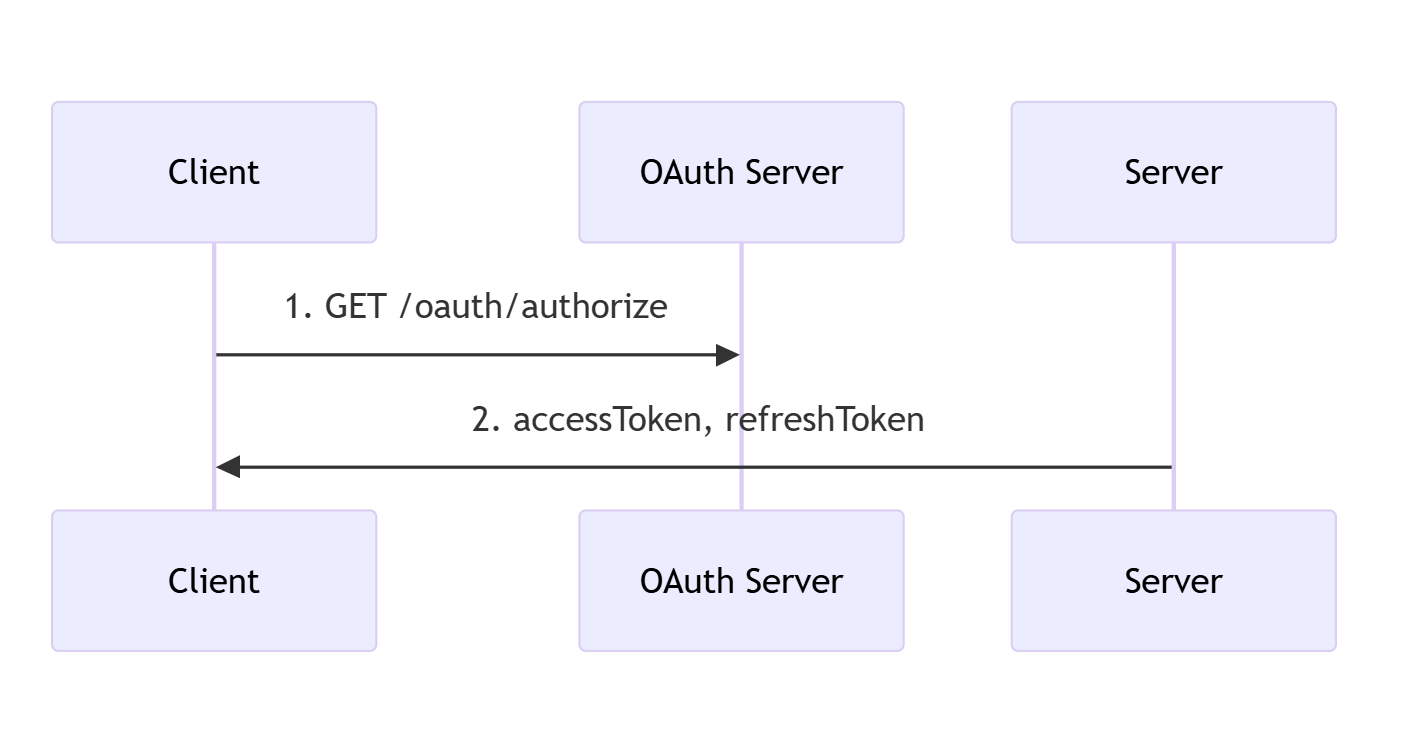
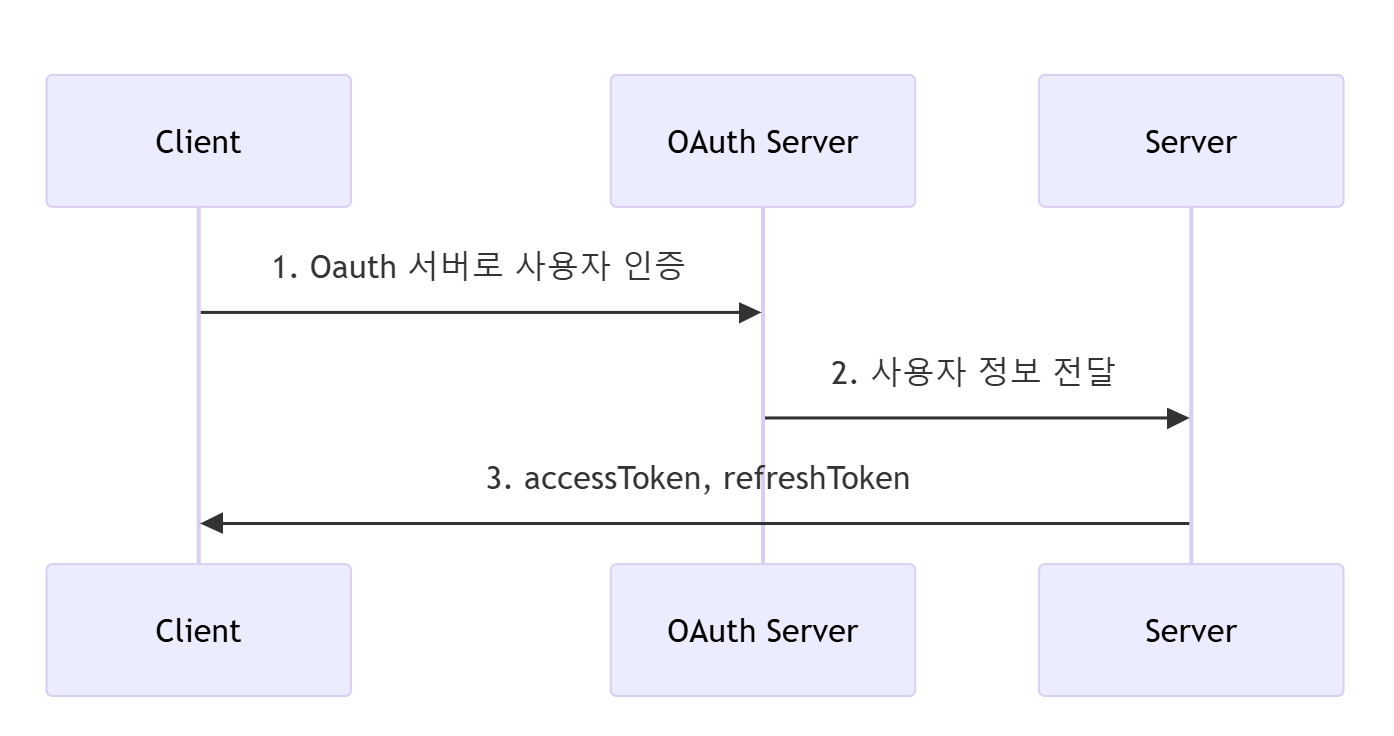
[Feat] 구글 로그인 (#48)
* [Feat] application.yml 작성

* [Feat] SpringSecurity에 google/callback 허용

* [Feat] 구글 로그인 구현

* [Feat] 공통 Oauth로직으로 흐름도 수정

* [Feat] 구글 로그인 문서 작성

* [Fix] ci-cd.yml에 구글 환경변수 추가

* [Fix] OAuth 문서 수정

* [Refactor] ci-cd 줄바꿈 수정

diff --git a/src/main/java/com/parting/dippin/core/auth/oauth/GoogleOauthApi.java b/src/main/java/com/parting/dippin/core/auth/oauth/GoogleOauthApi.java
@@ -1,0 +1,118 @@
+package com.parting.dippin.core.auth.oauth;
+
+import com.fasterxml.jackson.core.JsonProcessingException;
+import com.fasterxml.jackson.databind.JsonNode;
+import com.fasterxml.jackson.databind.ObjectMapper;
+import java.util.HashMap;
+import java.util.Map;
+import lombok.RequiredArgsConstructor;
+import org.jetbrains.annotations.NotNull;
+import org.springframework.beans.factory.annotation.Value;
+import org.springframework.http.HttpEntity;
+import org.springframework.http.HttpHeaders;
+import org.springframework.http.HttpMethod;
+import org.springframework.http.HttpStatus;
+import org.springframework.http.MediaType;
+import org.springframework.http.ResponseEntity;
+import org.springframework.stereotype.Component;
+import org.springframework.web.client.RestTemplate;
+
+@Component
+@RequiredArgsConstructor
+public class GoogleOauthApi implements OauthApi {
+
+    public static final String ACCESS_TOKEN = "access_token";
+    public static final String SOCIAL_ID = "id";
+    public static final String GRANT_TYPE = "grant_type";
+    public static final String AUTHORIZATION_CODE = "authorization_code";
+    public static final String CLIENT_ID = "client_id";
+    public static final String REDIRECT_URI = "redirect_uri";
+    public static final String CODE = "code";
+    public static final String CLIENT_SECRET = "client_secret";
+    @Value("${google.client.id}")
+    private String googleClientId;
+    @Value("${google.client.secret}")
+    private String googleClientSecret;
+    @Value("${google.uri.redirect}")
+    private String googleRedirectUri;
+    @Value("${google.uri.token-request}")
+    private String googleTokenRequestUri;
+    @Value("${google.uri.user-request}")
+    private String googleUserInfoRequestUri;
+
+    private final ObjectMapper objectMapper;
+    private final RestTemplate restTemplate;
+
+    @Override
+    public String getToken(String code) throws JsonProcessingException {
+        /* 카카오 토큰 요청에 필요한 값 지정 */
+        HttpEntity<Map<String, String>> requestEntity = generateTokenRequestEntity(code);
+//
+//        /* post 메소드 요청하여 response 받기 */
+        ResponseEntity<String> response = restTemplate.postForEntity(
+                googleTokenRequestUri,
+                requestEntity,
+                String.class
+        );
+//
+//        /* response 제대로 받아오면 값 파싱 */
+        if (response.getStatusCode() == HttpStatus.OK) {
+            String responseBody = response.getBody();
+            JsonNode jsonNode = objectMapper.readTree(responseBody);
+            return jsonNode.get(ACCESS_TOKEN).asText();
+        }
+
+        // TODO 구글, 애플, 카카오 로그인 모두 완료후 에러 처리 예정
+        throw new RuntimeException("외부 서버 통신 오류");
+    }
+
+    @NotNull
+    private HttpEntity<Map<String, String>> generateTokenRequestEntity(String code) {
+        HttpHeaders headers = new HttpHeaders();
+        headers.setContentType(MediaType.APPLICATION_JSON);
+
+        Map<String, String> requestBody = new HashMap<>();
+        requestBody.put(CODE, code);
+        requestBody.put(CLIENT_ID, googleClientId);
+        requestBody.put(CLIENT_SECRET, googleClientSecret);
+        requestBody.put(REDIRECT_URI, googleRedirectUri);
+        requestBody.put(GRANT_TYPE, AUTHORIZATION_CODE);
+
+        return new HttpEntity<>(requestBody, headers);
+    }
+
+//    @Override
+    public String getUser(String token) throws JsonProcessingException {
+        HttpEntity<Map<String, String>> requestEntity = generateUserInfoRequestEntity(token);
+
+        /* get 메소드 요청하여 response 받기 */
+        ResponseEntity<String> response = restTemplate.exchange(
+                googleUserInfoRequestUri,
+                HttpMethod.GET,
+                requestEntity,
+                String.class
+        );
+
+        /* response 제대로 받아오면 값 파싱 */
+        if (response.getStatusCode() == HttpStatus.OK) {
+            String responseBody = response.getBody();
+            JsonNode jsonNode = objectMapper.readTree(responseBody);
+
+            return jsonNode.get(SOCIAL_ID).asText();
+        }
+
+//        // TODO 예외 처리 PR 머지 후 수정예정
+        throw new RuntimeException("외부 서버 통신 오류");
+    }
+//
+    @NotNull
+    private static HttpEntity<Map<String, String>> generateUserInfoRequestEntity(String token) {
+        /* 카카오 유저정보 요청에 필요한 값 지정 */
+        HttpHeaders headers = new HttpHeaders();
+        headers.setBearerAuth(token);
+
+        /* request 엔티티 만들어주기 */
+        HttpEntity<Map<String, String>> requestEntity = new HttpEntity<>(null, headers);
+        return requestEntity;
+    }
+}

diff --git a/src/main/java/com/parting/dippin/api/auth/GoogleLoginController.java b/src/main/java/com/parting/dippin/api/auth/GoogleLoginController.java
@@ -1,0 +1,27 @@
+package com.parting.dippin.api.auth;
+
+import com.parting.dippin.api.auth.dto.GetJwtResDto;
+import com.parting.dippin.api.auth.service.OauthService;
+import com.parting.dippin.core.base.BaseResponse;
+import lombok.RequiredArgsConstructor;
+import org.springframework.web.bind.annotation.GetMapping;
+import org.springframework.web.bind.annotation.RequestParam;
+import org.springframework.web.bind.annotation.RestController;
+
+@RestController
+@RequiredArgsConstructor
+public class GoogleLoginController {
+
+    private final OauthService googleOauthService;
+
+    @GetMapping("/google/callback")
+    public BaseResponse<GetJwtResDto> callBack(
+            @RequestParam String code,
+            @RequestParam String scope
+    ) {
+        GetJwtResDto jwtResDto = googleOauthService.callBack(code);
+
+        return BaseResponse.ok(jwtResDto);
+    }
+
+}

diff --git a/src/main/java/com/parting/dippin/api/auth/service/GoogleOauthService.java b/src/main/java/com/parting/dippin/api/auth/service/GoogleOauthService.java
@@ -1,0 +1,26 @@
+package com.parting.dippin.api.auth.service;
+
+import com.parting.dippin.api.member.service.MemberService;
+import com.parting.dippin.core.auth.oauth.GoogleOauthApi;
+import com.parting.dippin.core.common.auth.TokenProvider;
+import com.parting.dippin.domain.member.service.MemberReader;
+import com.parting.dippin.entity.member.enums.SocialProvider;
+import org.springframework.stereotype.Service;
+
+@Service
+public class GoogleOauthService extends OauthService {
+
+    GoogleOauthService(
+            GoogleOauthApi googleOauthApi,
+            MemberReader memberReader,
+            TokenProvider tokenProvider,
+            MemberService memberService
+    ) {
+        super(googleOauthApi, memberReader, tokenProvider, memberService);
+    }
+
+    @Override
+    SocialProvider socialProvider() {
+        return SocialProvider.GOOGLE;
+    }
+}

diff --git a/src/main/java/com/parting/dippin/core/config/SpringSecurityConfig.java b/src/main/java/com/parting/dippin/core/config/SpringSecurityConfig.java
@@ -58,6 +58,7 @@ public class SpringSecurityConfig {
                         .requestMatchers("/hello").permitAll()
                         .requestMatchers("/auth/login").permitAll()
                         .requestMatchers("/kakao/callback").permitAll()
+                        .requestMatchers("/google/callback").permitAll()
                         .requestMatchers("/apple/callback").permitAll()
                         .anyRequest().authenticated());
 

diff --git a/src/main/java/com/parting/dippin/entity/member/enums/SocialProvider.java b/src/main/java/com/parting/dippin/entity/member/enums/SocialProvider.java
@@ -2,5 +2,6 @@ package com.parting.dippin.entity.member.enums;
 
 public enum SocialProvider {
     KAKAO,
-    APPLE
+    APPLE,
+    GOOGLE
 }
